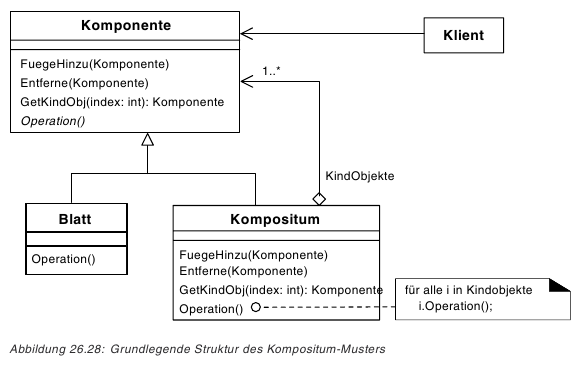
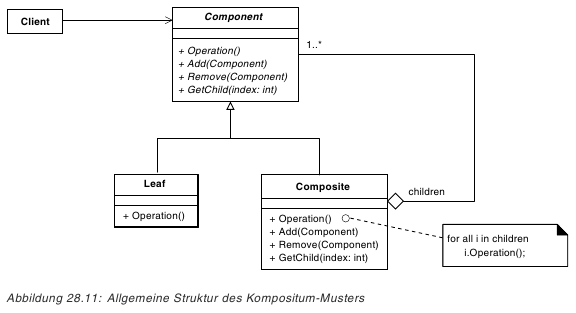
progress

Changed region(s): [[0.0, 0.0, 1.0, 0.8914], [0.0, 0.9201, 0.6875, 0.9776]]

diff --git a/presentation.html b/presentation.html
@@ -3628,43 +3628,91 @@ z.B.
 ---
 
 * Erbauer (builder) (S.666)
+    * ähnlich wie `Abstrakte Fabrik`, ausser, dass es der `builder`
+      erlaubt ein Objekt in mehreren Schritten zusammenzubauen.
+
+    <img src="bilder/Builder.png">
+
+    * `GetResult()` holt das zusammengebaute `Product`
+
+    * Anwendbarkeit:
+        * Der Algorithmus zum Erzeugen eines Komplexen Objekts soll
+          unabhängig von den Teilen sein
 
 ---
 
 * Erbauer (builder) ff
+    * Beispiel: Zusammenbauen von Autos
+        * `CDirector` bekommt ein Objekt einer Erbauerklasse wie z.B.
+          `CGelaendewagenBauer` und stellt Produkt her, in dem es die
+          allgemeinen Methoden baueRaeder etc. aufruft.
+
+    <img src="bilder/Builder.png">
+
+    * siehe Code S.668
 
 ---
 
 * Prototyp (prototype) (S.671)
+    * wird dann verwendet, wenn Erzeugung weiterer Instanzen
+      einer Klasse teuer ist und die Objekte sich ähneln.
+
+    <img src="bilder/Prototype.png">
+
+    * siehe Code S.673
 
 ---
 
-* Prototyp (prototype) ff
+* Prototyp-Manager (S.674)
+
+    <img src="bilder/Prototyp_Manager.png">
+
+    * siehe Code S.675 - bemerke `dynamic_cast` S.676
 
 ---
 
 * Strukturmuster (structural patterns) (S.678)
+
 * Kompositum (composite) (S.678)
 
----
+    <img src="bilder/Composite.png">
 
-* Kompositum (composite) ff
+    * Zusammenfügen von Objekten zu Baumstrukturen, welche eine
+      Teil-Ganzes Beziehung haben
+
+    * Nota bene Unterschied zwischen Definition des Kompositum Patterns
+      im Text und im Code.
+
+    * Einheitliche Behandlung von zusammengesetzten und "primitiven"
+      Elementen (im Code via `traverse`)
+
+    * siehe Code S.679
 
 ---
 
 * Fassade (facade) (S.681)
 
----
+    <img src="bilder/Facade.png">
 
-* Fassade (facade) ff
+    * einheitliche Schnittstelle zu einer Menge von Schnittstellen
+      eines Subsystems
+
+    * ermöglicht Schichtung einer Applikation
 
 ---
 
 * Proxy (S.684)
 
----
+    <img src="bilder/Proxy.png">
 
-* Proxy ff
+    * Kontrolle des Zugriffs auf ein Objekt mit Hilfe eines vorgeschalteten
+      Stellvertreterobjekts
+
+    * Anwendung:
+        * Verifizierung von Rechten
+	* Remote Zugriff
+	* Erstellen und Löschen von Objekten, wenn diese nicht mehr
+	  benötigt werden
 
 ---
 
